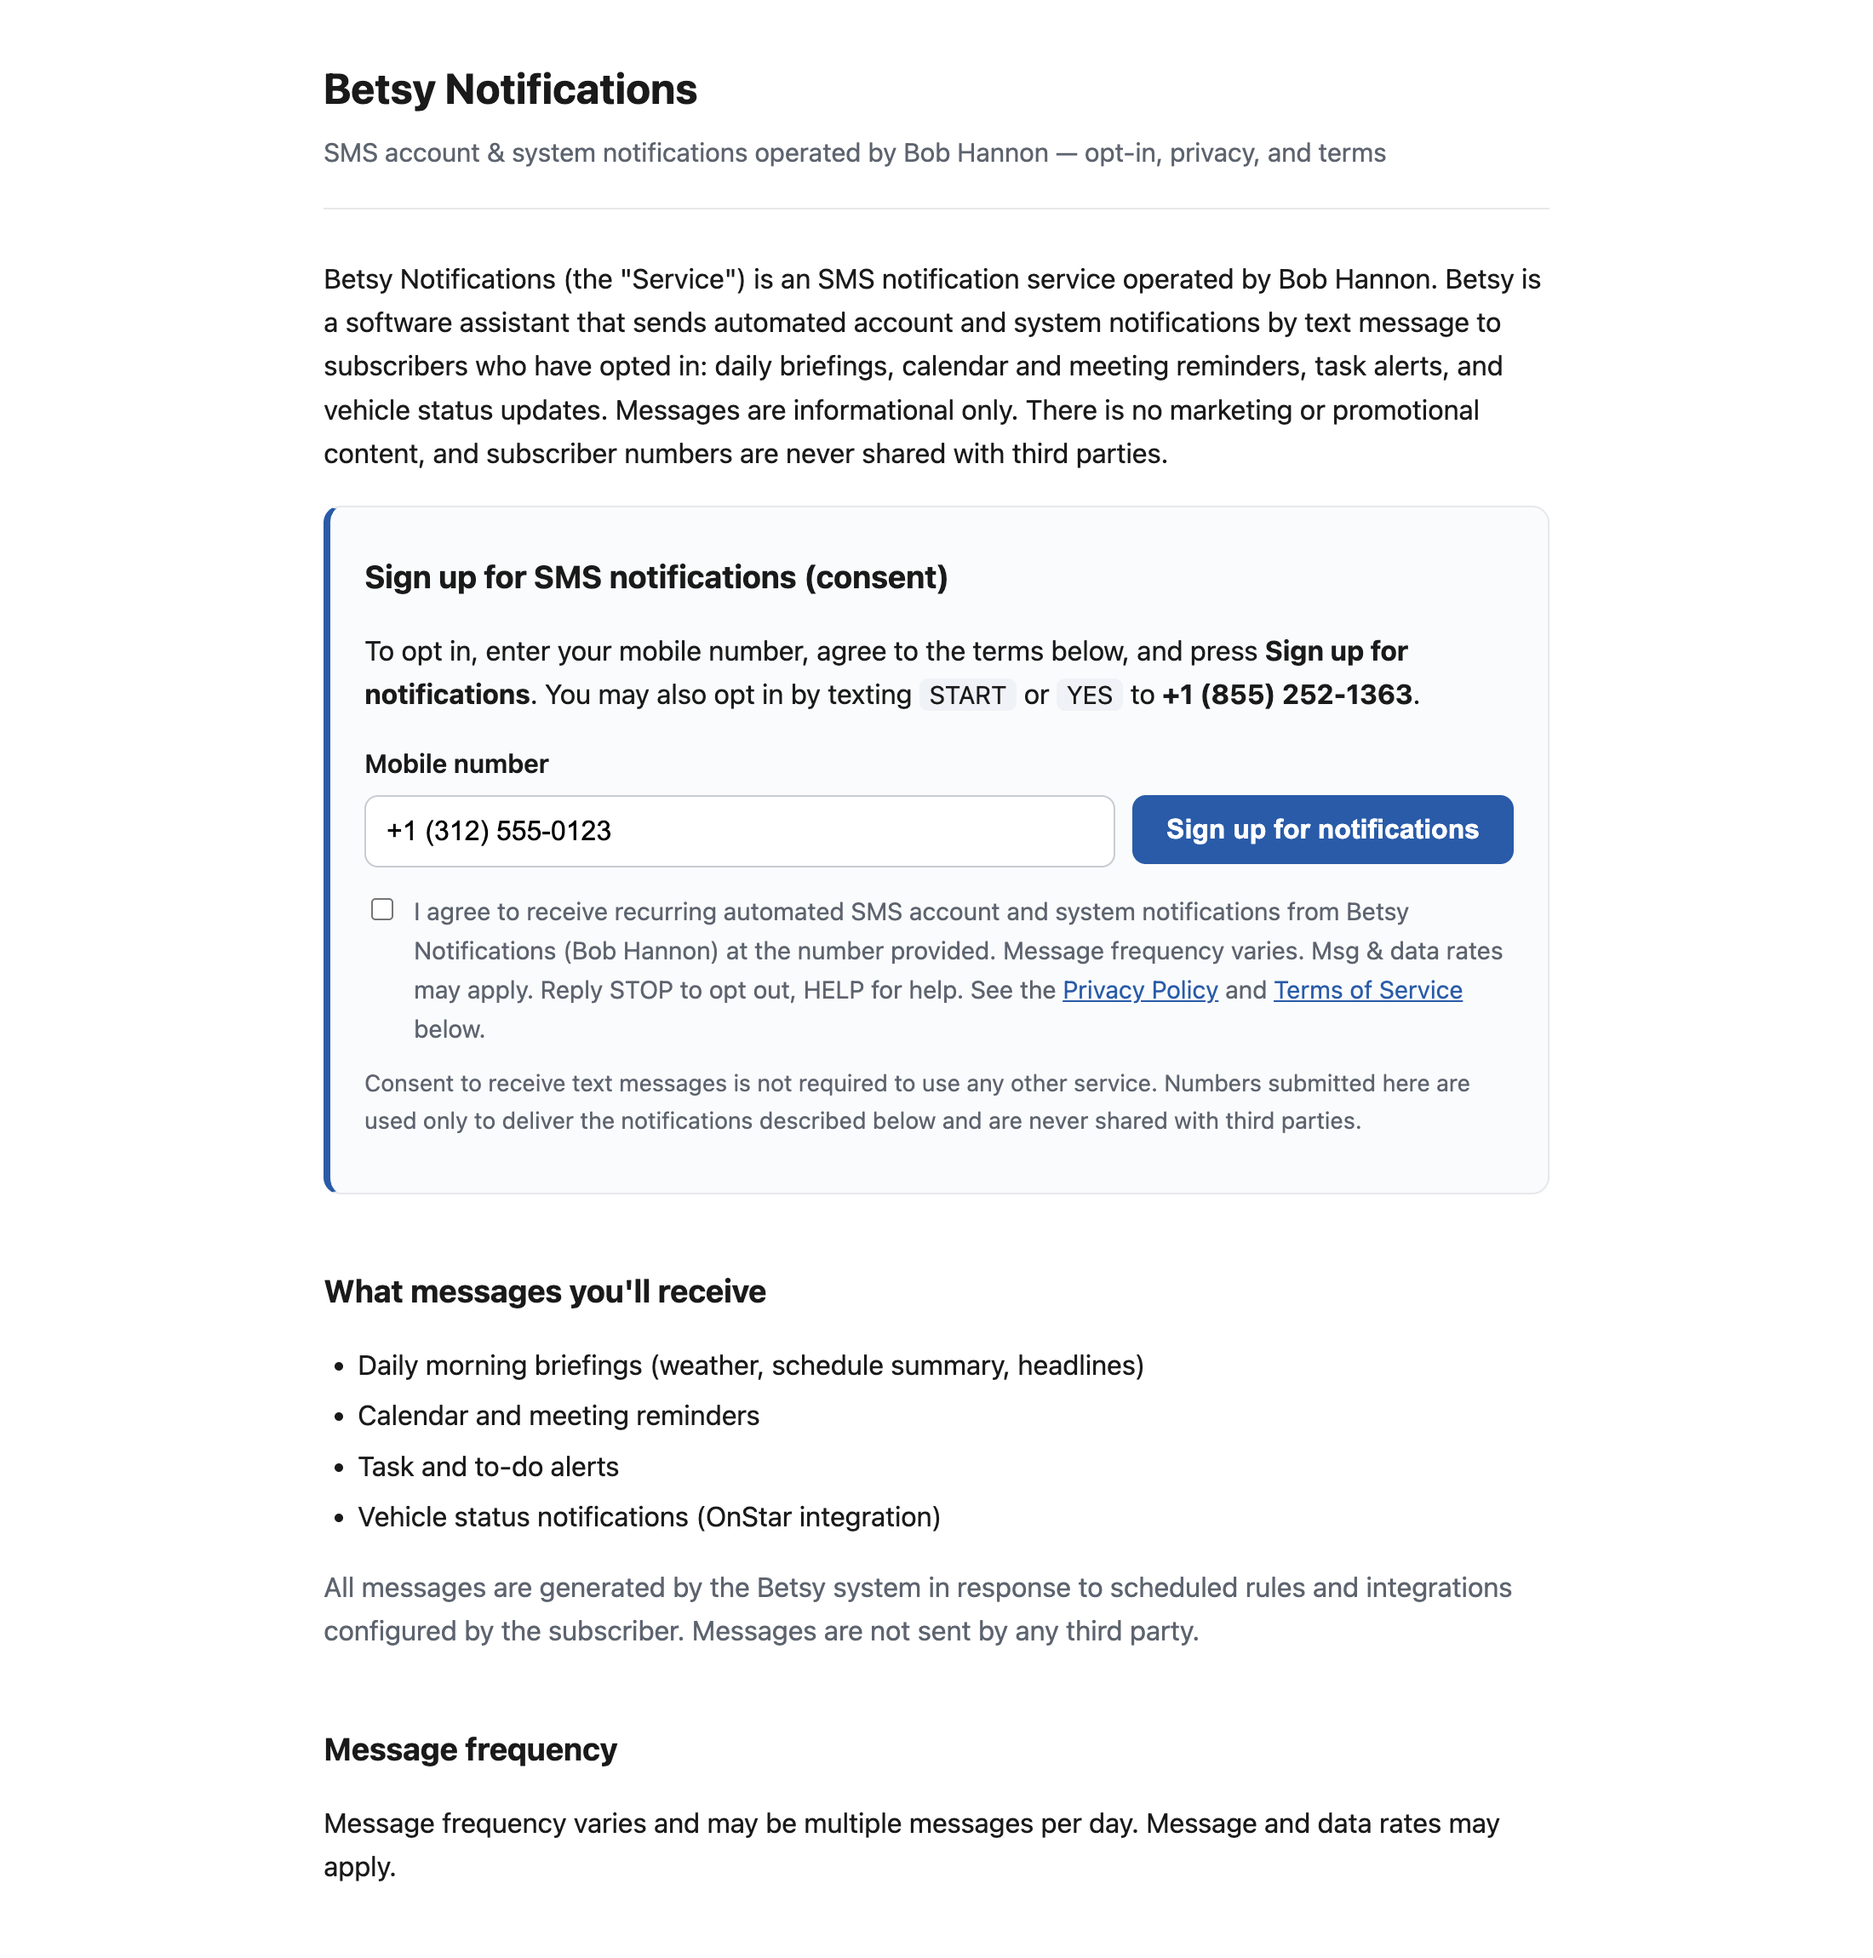
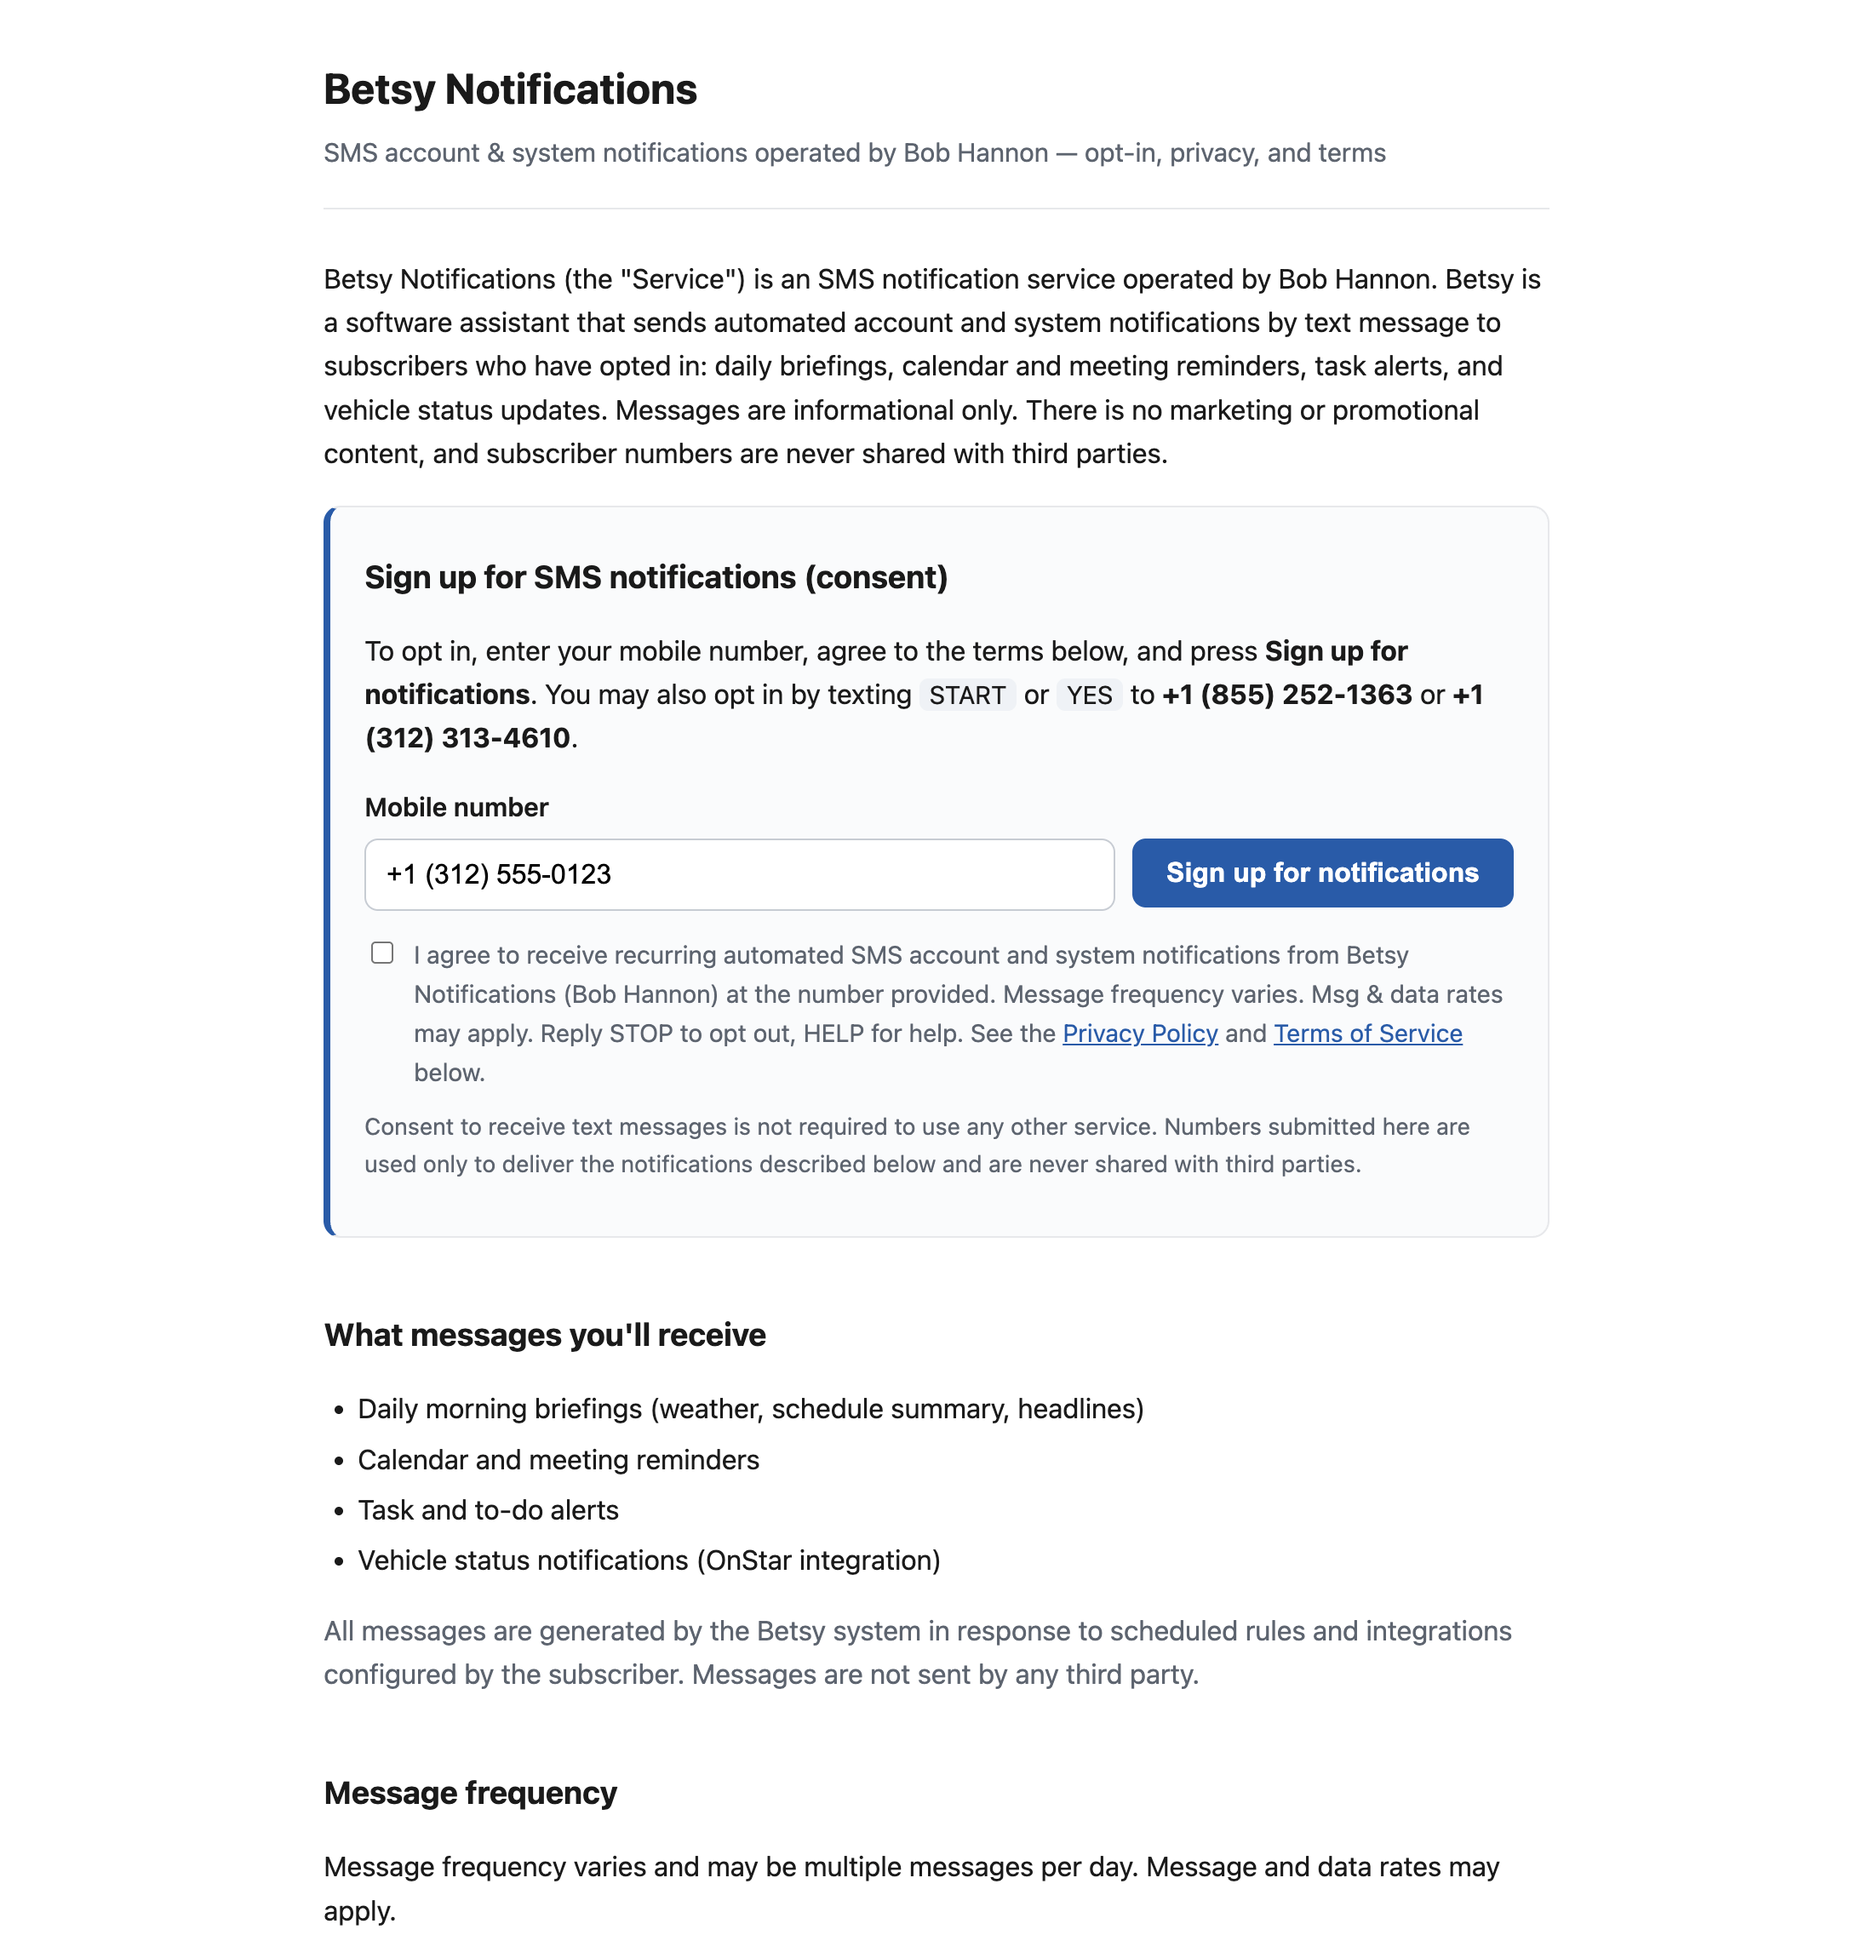
List both opt-in numbers; refresh form screenshot

Changed region(s): [[0.1545, 0.6483, 0.8036, 0.9878], [0.1855, 0.3704, 0.8345, 0.6174]]

diff --git a/index.html b/index.html
@@ -49,7 +49,7 @@
 
     <div class="card cta">
       <h2 style="margin-top:0;">Sign up for SMS notifications (consent)</h2>
-      <p>To opt in, enter your mobile number, agree to the terms below, and press <strong>Sign up for notifications</strong>. You may also opt in by texting <span class="kw">START</span> or <span class="kw">YES</span> to <strong>+1 (855) 252-1363</strong>.</p>
+      <p>To opt in, enter your mobile number, agree to the terms below, and press <strong>Sign up for notifications</strong>. You may also opt in by texting <span class="kw">START</span> or <span class="kw">YES</span> to <strong>+1 (855) 252-1363</strong> or <strong>+1 (312) 313-4610</strong>.</p>
 
       <form class="signup" id="signupForm" novalidate>
         <label class="flabel" for="phone">Mobile number</label>
